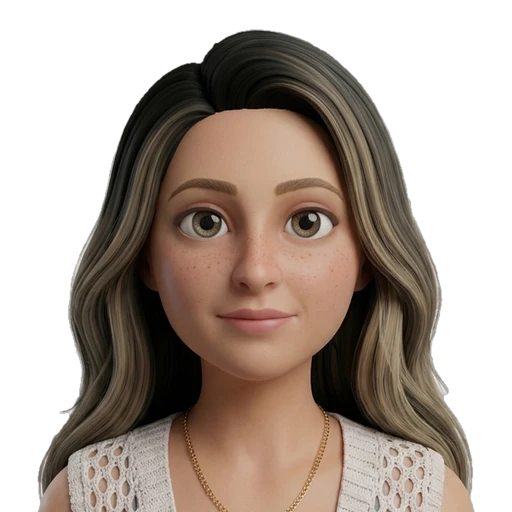
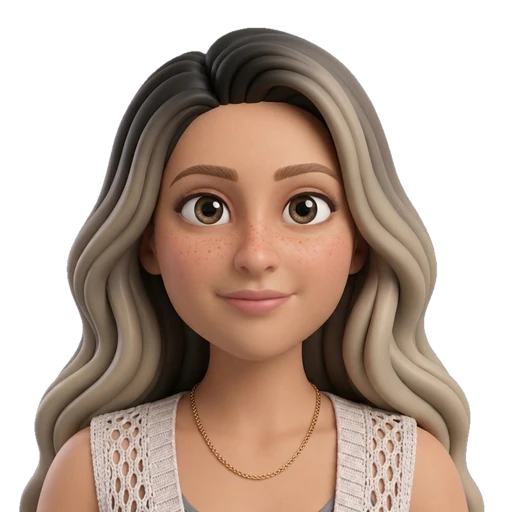
feat: restyled Carlos Pai and Darlenes portraits and warm dusk themes
- Replace Carlos Pai and Darlenes portraits with the new 3D renders
  matching the cast style: background removed and framed by head size
  like the other characters. Display name is now "Darlenes".
- Rework the five dark themes into lighter, warm "dusk" themes with
  less blue light: mid-tone warm backgrounds, cream text, board regions
  close to the original pastels with dark marks, and a slight warm
  filter on character art. All text pairs stay at 4.5:1 or more.
- SW v3.14.0.

diff --git a/src/css/themes.css b/src/css/themes.css
@@ -1,9 +1,10 @@
 /* CarolPawsDoku — temas de cor.
  *
  * "Porcelana" é o tema claro original (tokens em main.css).
- * Os temas escuros reaproveitam a PALETA OFICIAL: cada pastel vira a sua versão
- * "noturna" misturada ao fundo do tema, então botões, regiões do tabuleiro e
- * textos se ajustam juntos sem regras por componente.
+ * Os cinco temas escuros são "de entardecer": fundos médios e quentes (não preto),
+ * texto creme em vez de branco e pouco azul no conjunto, para descansar a vista
+ * à noite. Eles reaproveitam a PALETA OFICIAL: o tabuleiro usa os mesmos pastéis,
+ * só um pouco suavizados pelo fundo; botões e selos usam o pastel mais apagado.
  *
  * Cada tema escuro define só duas cores:
  *   --base  fundo da tela
@@ -11,60 +12,65 @@
  * O tema ativo é aplicado em <html data-theme="..." class="theme-dark"> (ver theme.js).
  */
 
-:root[data-theme="cafe"]    { --base: #1C1916; --tint: #E6DACB; }
-:root[data-theme="lavanda"] { --base: #1B1824; --tint: #DAD1F0; }
-:root[data-theme="menta"]   { --base: #151E19; --tint: #D2E8C6; }
-:root[data-theme="ceu"]     { --base: #141C26; --tint: #C8DCF1; }
-:root[data-theme="rose"]    { --base: #211818; --tint: #F6CFCB; }
+:root[data-theme="cafe"]    { --base: #3D352D; --tint: #E6DACB; }
+:root[data-theme="lavanda"] { --base: #3B3442; --tint: #DAD1F0; }
+:root[data-theme="menta"]   { --base: #323C34; --tint: #D2E8C6; }
+:root[data-theme="ceu"]     { --base: #313D3E; --tint: #C2E4DF; }
+:root[data-theme="rose"]    { --base: #45352F; --tint: #F6CFCB; }
 
 :root.theme-dark {
   color-scheme: dark;
 
-  /* paleta noturna: o mesmo pastel, misturado ao fundo do tema */
-  --pastel-blush:    color-mix(in oklab, #F6CFCB 36%, var(--base));
-  --pastel-apricot:  color-mix(in oklab, #FBDDB5 36%, var(--base));
-  --pastel-butter:   color-mix(in oklab, #F6EDB8 34%, var(--base));
-  --pastel-mint:     color-mix(in oklab, #D2E8C6 34%, var(--base));
-  --pastel-seafoam:  color-mix(in oklab, #C2E4DF 34%, var(--base));
-  --pastel-sky:      color-mix(in oklab, #C8DCF1 36%, var(--base));
-  --pastel-lavender: color-mix(in oklab, #DAD1F0 36%, var(--base));
-  --pastel-orchid:   color-mix(in oklab, #EDCDE5 36%, var(--base));
-  --pastel-sand:     color-mix(in oklab, #E6DACB 26%, var(--base));
-  --pastel-mint-deep: #93C083;
+  /* interface: pastel apagado (texto creme por cima, contraste ≥ 4,5:1) */
+  --pastel-blush:    color-mix(in oklab, #F6CFCB 30%, var(--base));
+  --pastel-apricot:  color-mix(in oklab, #FBDDB5 30%, var(--base));
+  --pastel-butter:   color-mix(in oklab, #F6EDB8 28%, var(--base));
+  --pastel-mint:     color-mix(in oklab, #D2E8C6 28%, var(--base));
+  --pastel-seafoam:  color-mix(in oklab, #C2E4DF 28%, var(--base));
+  --pastel-sky:      color-mix(in oklab, #C8DCF1 30%, var(--base));
+  --pastel-lavender: color-mix(in oklab, #DAD1F0 30%, var(--base));
+  --pastel-orchid:   color-mix(in oklab, #EDCDE5 30%, var(--base));
+  --pastel-sand:     color-mix(in oklab, #E6DACB 24%, var(--base));
+  --pastel-mint-deep: #A3C892;
   --pastel-porcelain: var(--base);
-  --neutral-white:   color-mix(in oklab, var(--tint) 9%, var(--base));
+  --neutral-white:   color-mix(in oklab, var(--tint) 12%, var(--base));
 
-  /* regiões do tabuleiro: mais vivas que o resto da interface, para se distinguirem bem */
-  --region-0: color-mix(in oklab, #F6CFCB 54%, var(--base));
-  --region-1: color-mix(in oklab, #C8DCF1 54%, var(--base));
-  --region-2: color-mix(in oklab, #F6EDB8 50%, var(--base));
-  --region-3: color-mix(in oklab, #DAD1F0 54%, var(--base));
-  --region-4: color-mix(in oklab, #D2E8C6 50%, var(--base));
-  --region-5: color-mix(in oklab, #FBDDB5 52%, var(--base));
-  --region-6: color-mix(in oklab, #C2E4DF 50%, var(--base));
-  --region-7: color-mix(in oklab, #EDCDE5 54%, var(--base));
-  --region-8: color-mix(in oklab, #E6DACB 44%, var(--base));
-  --region-line: color-mix(in oklab, #F2ECE4 62%, var(--base));
-  --cell-grid: rgb(255 255 255 / 0.07);
+  /* tabuleiro: os mesmos pastéis, claros, só levemente aquecidos pelo fundo */
+  --region-0: color-mix(in oklab, #F6CFCB 80%, var(--base));
+  --region-1: color-mix(in oklab, #C8DCF1 80%, var(--base));
+  --region-2: color-mix(in oklab, #F6EDB8 80%, var(--base));
+  --region-3: color-mix(in oklab, #DAD1F0 80%, var(--base));
+  --region-4: color-mix(in oklab, #D2E8C6 80%, var(--base));
+  --region-5: color-mix(in oklab, #FBDDB5 80%, var(--base));
+  --region-6: color-mix(in oklab, #C2E4DF 80%, var(--base));
+  --region-7: color-mix(in oklab, #EDCDE5 80%, var(--base));
+  --region-8: color-mix(in oklab, #E6DACB 80%, var(--base));
+  --region-line: color-mix(in oklab, #B9AC9E 55%, var(--base));
+  --cell-grid: rgb(255 255 255 / 0.35);
 
-  --color-surface-soft: color-mix(in oklab, var(--tint) 14%, var(--base));
-  --color-border: color-mix(in oklab, var(--tint) 20%, var(--base));
-  --color-text: #F2ECE4;
-  --color-muted: color-mix(in oklab, #F2ECE4 64%, var(--base));
-  --color-error: #E8968E;
-  --color-on-accent: #1C1916;
-  --overlay-scrim: rgb(0 0 0 / 0.55);
-  --shadow-soft: 0 8px 28px rgb(0 0 0 / 0.35);
+  --color-surface-soft: color-mix(in oklab, var(--tint) 18%, var(--base));
+  --color-border: color-mix(in oklab, var(--tint) 26%, var(--base));
+  --color-text: #F4E9D8;
+  --color-muted: color-mix(in oklab, #F4E9D8 78%, var(--base));
+  --color-error: #EBA197;
+  --color-on-accent: var(--base);
+  --overlay-scrim: rgb(20 14 10 / 0.5);
+  --shadow-soft: 0 8px 28px rgb(20 14 10 / 0.3);
 }
 
 /* Menu: a arte tem fundo creme próprio; no escuro ela vira um cartão arredondado. */
 .theme-dark .screen-menu {
   --menu-cream: var(--base);
-  --menu-rim: color-mix(in oklab, var(--tint) 22%, var(--base));
+  --menu-rim: color-mix(in oklab, var(--tint) 26%, var(--base));
 }
 .theme-dark .menu-art { border-radius: 24px; box-shadow: var(--shadow-soft); }
-.theme-dark .menu-gear { color: #A7D0BA; background: rgb(0 0 0 / 0.25); }
-.theme-dark .menu-gear:hover { background: rgb(0 0 0 / 0.4); }
+.theme-dark .menu-gear { color: #B5D6C0; background: rgb(0 0 0 / 0.2); }
+.theme-dark .menu-gear:hover { background: rgb(0 0 0 / 0.32); }
+
+/* Menos luz azul também nas artes: um toque quente e um pouco menos de brilho. */
+.theme-dark .char img,
+.theme-dark .menu-art,
+.theme-dark .support-teaser { filter: sepia(.12) saturate(.94) brightness(.96); }
 
 /* Destaques em verde menta continuam claros: texto escuro por cima. */
 .theme-dark .btn-accent,
@@ -72,16 +78,13 @@
 .theme-dark .history .res.win,
 .theme-dark .track.is-playing .btn { color: var(--color-on-accent); }
 
-/* Interruptor: a bolinha precisa contrastar com o trilho escuro. */
+/* Interruptor: a bolinha precisa contrastar com o trilho. */
 .theme-dark .switch i::after { background: var(--color-text); }
 
-/* Marcas ✕ e pontinhos sobre as regiões noturnas: cor do texto (o tom apagado some). */
-.theme-dark .mark { color: var(--color-text); opacity: .7; }
-.theme-dark .auto { background: var(--color-text); opacity: .3; }
-
-/* No escuro, destacar é clarear (no claro, é escurecer). */
-.theme-dark .cell.hl-line { filter: brightness(1.12) saturate(1.1); }
-.theme-dark .cell.focus { filter: brightness(1.22) saturate(1.15); }
+/* Tabuleiro claro: marcas, pontinhos e anel de "pronto para revelar" na cor escura do fundo. */
+.theme-dark .mark { color: var(--base); opacity: .75; }
+.theme-dark .auto { background: var(--base); opacity: .35; }
+.theme-dark .cell.armed { box-shadow: inset 0 0 0 3px color-mix(in oklab, var(--base) 70%, transparent); }
 
 /* ---------- Seletor de tema (Configurações) ---------- */
 .theme-grid { display: grid; grid-template-columns: repeat(auto-fill, minmax(118px, 1fr)); gap: 10px; margin-top: 4px; }

diff --git a/src/js/theme.js b/src/js/theme.js
@@ -1,4 +1,4 @@
-/* CarolPawsDoku — temas de cor (claro "Porcelana" e cinco escuros da mesma paleta).
+/* CarolPawsDoku — temas de cor (claro "Porcelana" e cinco escuros de entardecer, da mesma paleta).
  *
  * O tema fica em CPD.settings('theme'). O <head> do index.html aplica o tema salvo
  * antes de desenhar a página (evita piscar claro); este módulo cuida das trocas
@@ -10,11 +10,11 @@
 
   const THEMES = [
     { id: 'porcelana', name: 'Porcelana', note: 'Claro', dark: false, bg: '#FBF7F2', swatch: ['#FBF7F2', '#F6CFCB', '#A9CF99'] },
-    { id: 'cafe', name: 'Café', note: 'Escuro', dark: true, bg: '#1C1916', swatch: ['#1C1916', '#E6DACB', '#93C083'] },
-    { id: 'lavanda', name: 'Lavanda', note: 'Escuro', dark: true, bg: '#1B1824', swatch: ['#1B1824', '#DAD1F0', '#93C083'] },
-    { id: 'menta', name: 'Menta', note: 'Escuro', dark: true, bg: '#151E19', swatch: ['#151E19', '#D2E8C6', '#93C083'] },
-    { id: 'ceu', name: 'Céu', note: 'Escuro', dark: true, bg: '#141C26', swatch: ['#141C26', '#C8DCF1', '#93C083'] },
-    { id: 'rose', name: 'Rosé', note: 'Escuro', dark: true, bg: '#211818', swatch: ['#211818', '#F6CFCB', '#93C083'] },
+    { id: 'cafe', name: 'Café', note: 'Entardecer', dark: true, bg: '#3D352D', swatch: ['#3D352D', '#E6DACB', '#F6CFCB'] },
+    { id: 'lavanda', name: 'Lavanda', note: 'Entardecer', dark: true, bg: '#3B3442', swatch: ['#3B3442', '#DAD1F0', '#EDCDE5'] },
+    { id: 'menta', name: 'Menta', note: 'Entardecer', dark: true, bg: '#323C34', swatch: ['#323C34', '#D2E8C6', '#F6EDB8'] },
+    { id: 'ceu', name: 'Céu', note: 'Entardecer', dark: true, bg: '#313D3E', swatch: ['#313D3E', '#C2E4DF', '#FBDDB5'] },
+    { id: 'rose', name: 'Rosé', note: 'Entardecer', dark: true, bg: '#45352F', swatch: ['#45352F', '#F6CFCB', '#FBDDB5'] },
   ];
   const AUTO = { id: 'auto', name: 'Automático', note: 'Segue o aparelho' };
   const LIGHT = 'porcelana';

diff --git a/src/js/app.js b/src/js/app.js
@@ -250,7 +250,7 @@
     });
     sync();
     return el('div', { class: 'card' }, el('h3', null, 'Aparência'),
-      el('p', { class: 'hint-text' }, 'Tema de cores do jogo. Os escuros usam a mesma paleta, em tons de noite.'), grid);
+      el('p', { class: 'hint-text' }, 'Tema de cores do jogo. Os de entardecer usam a mesma paleta, mais suaves e com menos luz azul para descansar a vista.'), grid);
   }
 
   function renderSettings() {

diff --git a/src/js/characters.js b/src/js/characters.js
@@ -23,7 +23,7 @@
     { id: 'mamae', name: 'Bethânia', kind: 'person' },
     { id: 'dr-sandro', name: 'Sandro', kind: 'person' },
     { id: 'carlos-pai', name: 'Carlos Pai', kind: 'person' },
-    { id: 'darlene', name: 'Darlene', kind: 'person' },
+    { id: 'darlene', name: 'Darlenes', kind: 'person' },
   ];
   const EXPRESSIONS = ['normal', 'happy'];
   const BASE = 'src/assets/characters/';

diff --git a/sw.js b/sw.js
@@ -7,7 +7,7 @@
  *
  * Para publicar arquivos novos ou alterados, aumente VERSION: o cache antigo é apagado.
  */
-const VERSION = 'v3.13.1';
+const VERSION = 'v3.14.0';
 const SHELL_CACHE = 'cpd-shell-' + VERSION;
 const AUDIO_CACHE = 'cpd-audio-v2';
 

diff --git a/README.md b/README.md
@@ -1,6 +1,6 @@
 # Carlos & Carol Family Quest 🐾
 
-Um quebra-cabeça de lógica tranquilo: cada **região colorida** esconde um personagem. Os personagens são **Carol, Sol, Mezzo, Jade, Celso R., Rose, Cjota, Bethânia, Sandro, Carlos Pai e Darlene**.
+Um quebra-cabeça de lógica tranquilo: cada **região colorida** esconde um personagem. Os personagens são **Carol, Sol, Mezzo, Jade, Celso R., Rose, Cjota, Bethânia, Sandro, Carlos Pai e Darlenes**.
 
 O jogo roda inteiro no navegador, sem servidor e sem login. Depois do primeiro carregamento, imagens, código e músicas ficam guardados em cache.
 
@@ -35,7 +35,7 @@ O tabuleiro N×N tem N regiões coloridas. A regra:
 - **Personagens já revelados:** só nas fases 1 a 3 alguns aparecem desde o início, para ajudar. Da fase 4 em diante, todos começam escondidos.
 - **Transição de fase:** cada fase começa com um quadro em branco. As casas se encaixam em onda diagonal, com um "toc" suave que sobe de tom, e um acorde leve no fim. O cronômetro só começa quando o tabuleiro fica pronto. Com "Reduzir movimento" ligado, as casas só aparecem esmaecendo; com as animações desligadas, o tabuleiro aparece na hora.
 - **Coleção:** a tela **Personagens** mostra quem você já encontrou.
-- **Aparência:** em Configurações há o tema claro *Porcelana* (padrão), cinco temas escuros feitos com a mesma paleta (*Café, Lavanda, Menta, Céu e Rosé*) e o *Automático*, que segue o aparelho (Porcelana de dia, Café no modo escuro). As cores ficam em `src/css/themes.css`.
+- **Aparência:** em Configurações há o tema claro *Porcelana* (padrão), cinco temas escuros de entardecer feitos com a mesma paleta (*Café, Lavanda, Menta, Céu e Rosé*): fundos médios e quentes em vez de preto, texto creme e pouco azul, para descansar a vista à noite e o *Automático*, que segue o aparelho (Porcelana de dia, Café no modo escuro). As cores ficam em `src/css/themes.css`.
 
 ### Fases
 
